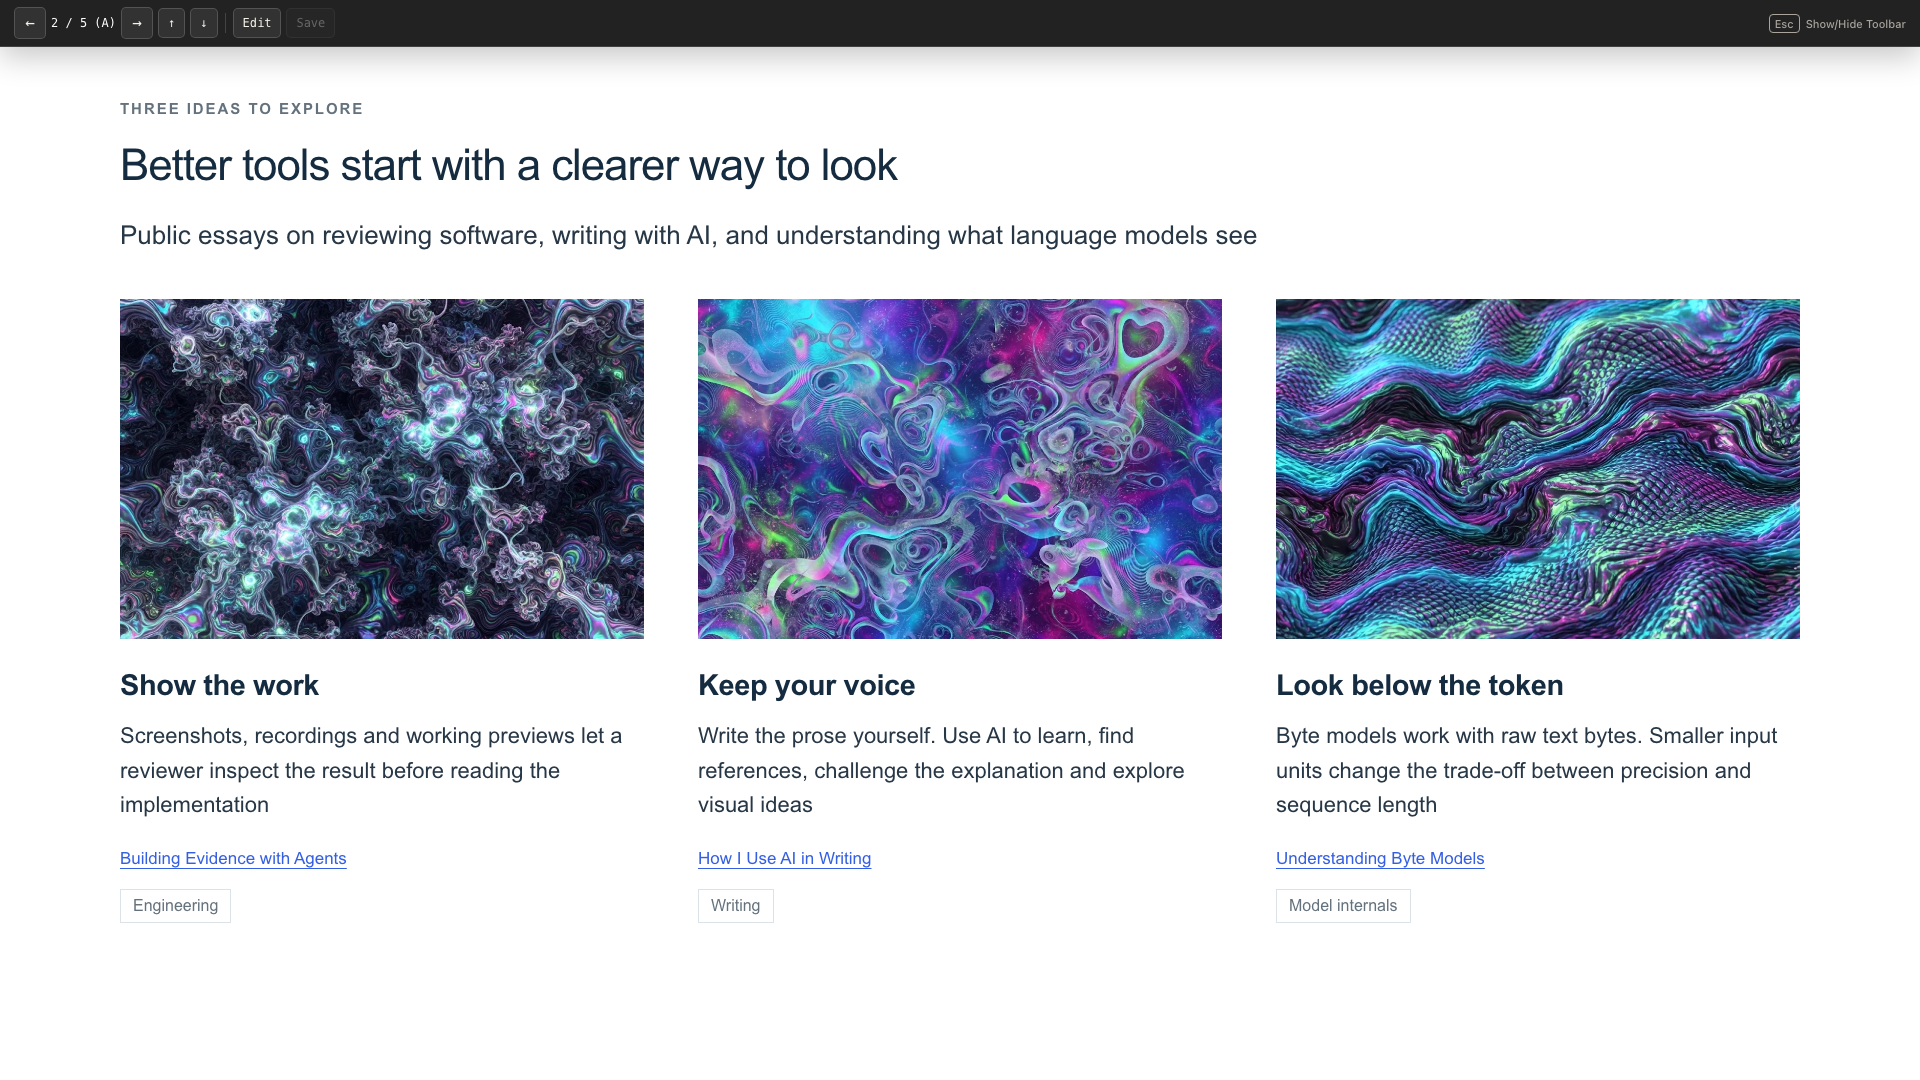
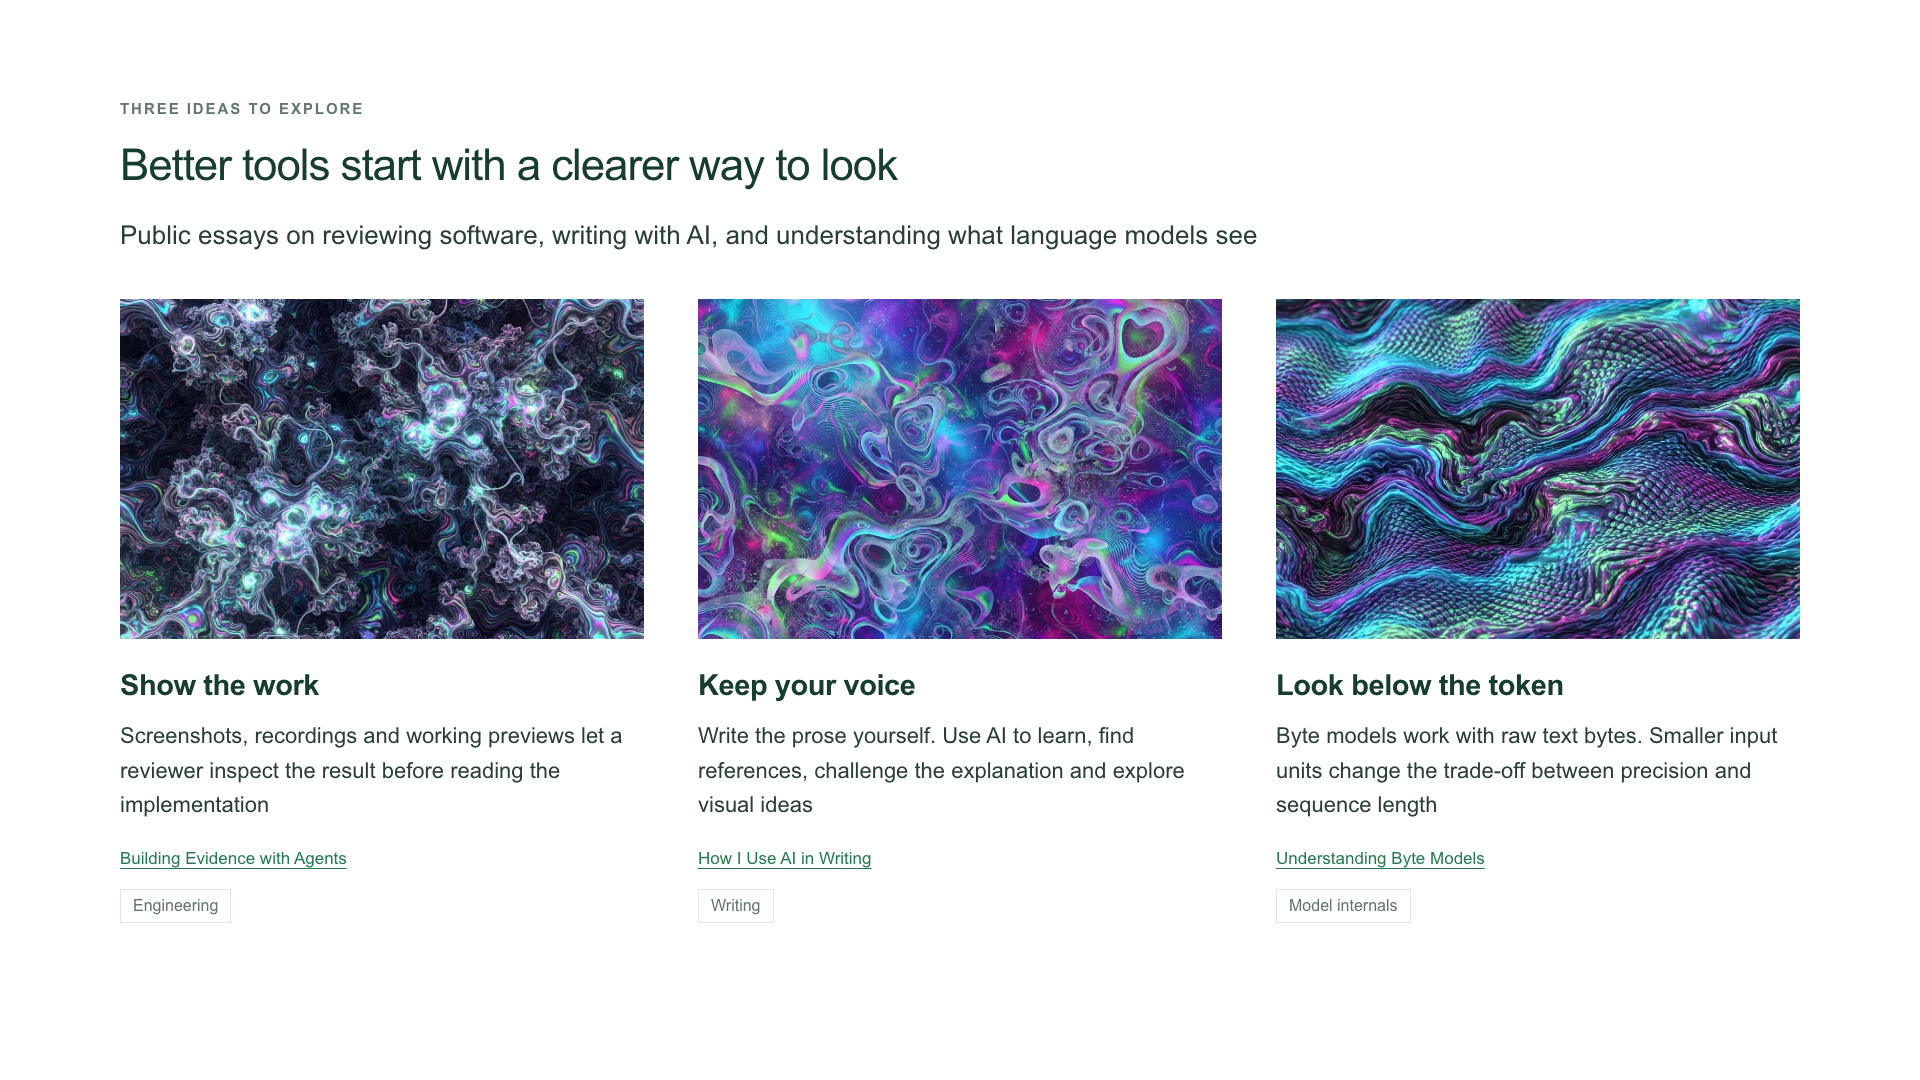
style: use a green palette for editorial templates

diff --git a/site/layouts/index.html b/site/layouts/index.html
@@ -8,11 +8,11 @@
   <style>
     /* 1920 × 1080 canvas. Copy a section and its layout rules to reuse it. */
     * { box-sizing: border-box; }
-    html, body { margin: 0; height: 100%; overflow: hidden; background: #10151b; }
+    html, body { margin: 0; height: 100%; overflow: hidden; background: #101b16; }
     body { font-family: Inter, Arial, sans-serif; -webkit-font-smoothing: antialiased; }
     .stage { position: absolute; width: 1920px; height: 1080px; transform-origin: top left; }
     .slide { position: absolute; inset: 0; display: none; width: 1920px; height: 1080px; overflow: hidden;
-      --ink: #152c40; --text: #273746; --muted: #64727d; --line: #dce3e8; --accent: #345fe3; --soft: #f3f6f8;
+      --ink: #173c30; --text: #293e35; --muted: #61756a; --line: #dce7df; --accent: #237a50; --soft: #f3f7f4;
       color: var(--ink); background: #fff; }
     .slide.active { display: block; }
     h1, h2, h3, p, figure { margin: 0; }
@@ -28,7 +28,7 @@
     .wrap { position: absolute; inset: 100px 120px 80px; }
     .wrap > .lead { max-width: 1480px; }
     img { display: block; width: 100%; height: 100%; object-fit: cover; }
-    .art { overflow: hidden; background: #132438; }
+    .art { overflow: hidden; background: #142c22; }
     .tag { display: inline-block; padding: 7px 12px; border: 1px solid var(--line); color: var(--muted); font-size: 16px; }
     .source { margin-top: 22px; font-size: 17px; line-height: 1.5; }
     .variant-label { display: none; }
@@ -98,7 +98,7 @@
     /* 5: a reading wall beside an explanatory sequence. */
     .reading-grid { display: grid; grid-template-columns: 1.25fr 1fr; gap: 80px; margin-top: 46px; }
     .reading-wall { position: relative; height: 620px; background: var(--soft); }
-    .reading-card { position: absolute; display: block; width: 66%; color: var(--ink); background: #fff; box-shadow: 0 12px 36px #152c4026; text-decoration: none; }
+    .reading-card { position: absolute; display: block; width: 66%; color: var(--ink); background: #fff; box-shadow: 0 12px 36px #173c3026; text-decoration: none; }
     .reading-card img { height: 110px; }
     .reading-card span { display: block; padding: 18px 24px; font-size: 25px; font-weight: 600; line-height: 1.25; }
     .reading-card:hover, .reading-card:focus-visible { z-index: 2; }

diff --git a/themes/editorial/template/presentation.html b/themes/editorial/template/presentation.html
@@ -8,11 +8,11 @@
   <style>
     /* 1920 × 1080 canvas. Copy a section and its layout rules to reuse it. */
     * { box-sizing: border-box; }
-    html, body { margin: 0; height: 100%; overflow: hidden; background: #10151b; }
+    html, body { margin: 0; height: 100%; overflow: hidden; background: #101b16; }
     body { font-family: Inter, Arial, sans-serif; -webkit-font-smoothing: antialiased; }
     .stage { position: absolute; width: 1920px; height: 1080px; transform-origin: top left; }
     .slide { position: absolute; inset: 0; display: none; width: 1920px; height: 1080px; overflow: hidden;
-      --ink: #152c40; --text: #273746; --muted: #64727d; --line: #dce3e8; --accent: #345fe3; --soft: #f3f6f8;
+      --ink: #173c30; --text: #293e35; --muted: #61756a; --line: #dce7df; --accent: #237a50; --soft: #f3f7f4;
       color: var(--ink); background: #fff; }
     .slide.active { display: block; }
     h1, h2, h3, p, figure { margin: 0; }
@@ -28,7 +28,7 @@
     .wrap { position: absolute; inset: 100px 120px 80px; }
     .wrap > .lead { max-width: 1480px; }
     img { display: block; width: 100%; height: 100%; object-fit: cover; }
-    .art { overflow: hidden; background: #132438; }
+    .art { overflow: hidden; background: #142c22; }
     .tag { display: inline-block; padding: 7px 12px; border: 1px solid var(--line); color: var(--muted); font-size: 16px; }
     .source { margin-top: 22px; font-size: 17px; line-height: 1.5; }
     .variant-label { display: none; }
@@ -98,7 +98,7 @@
     /* 5: a reading wall beside an explanatory sequence. */
     .reading-grid { display: grid; grid-template-columns: 1.25fr 1fr; gap: 80px; margin-top: 46px; }
     .reading-wall { position: relative; height: 620px; background: var(--soft); }
-    .reading-card { position: absolute; display: block; width: 66%; color: var(--ink); background: #fff; box-shadow: 0 12px 36px #152c4026; text-decoration: none; }
+    .reading-card { position: absolute; display: block; width: 66%; color: var(--ink); background: #fff; box-shadow: 0 12px 36px #173c3026; text-decoration: none; }
     .reading-card img { height: 110px; }
     .reading-card span { display: block; padding: 18px 24px; font-size: 25px; font-weight: 600; line-height: 1.25; }
     .reading-card:hover, .reading-card:focus-visible { z-index: 2; }

diff --git a/themes/editorial/template/README.md b/themes/editorial/template/README.md
@@ -16,6 +16,8 @@ Left/right moves through five slide groups. Up/down cycles through alternative l
 
 The alternative pairs carry the same core content. Choose an arrangement to suit the story, or keep multiple options while reviewing.
 
+The default palette pairs forest-green headings with green accents and pale sage surfaces. Adjust the colour variables on `.slide` to suit your deck.
+
 ## Adapt a layout
 
 Edit the HTML sections and CSS directly. Each section needs a unique `data-name`; give alternatives the same `data-page` and distinct single-letter `data-alt` values:
